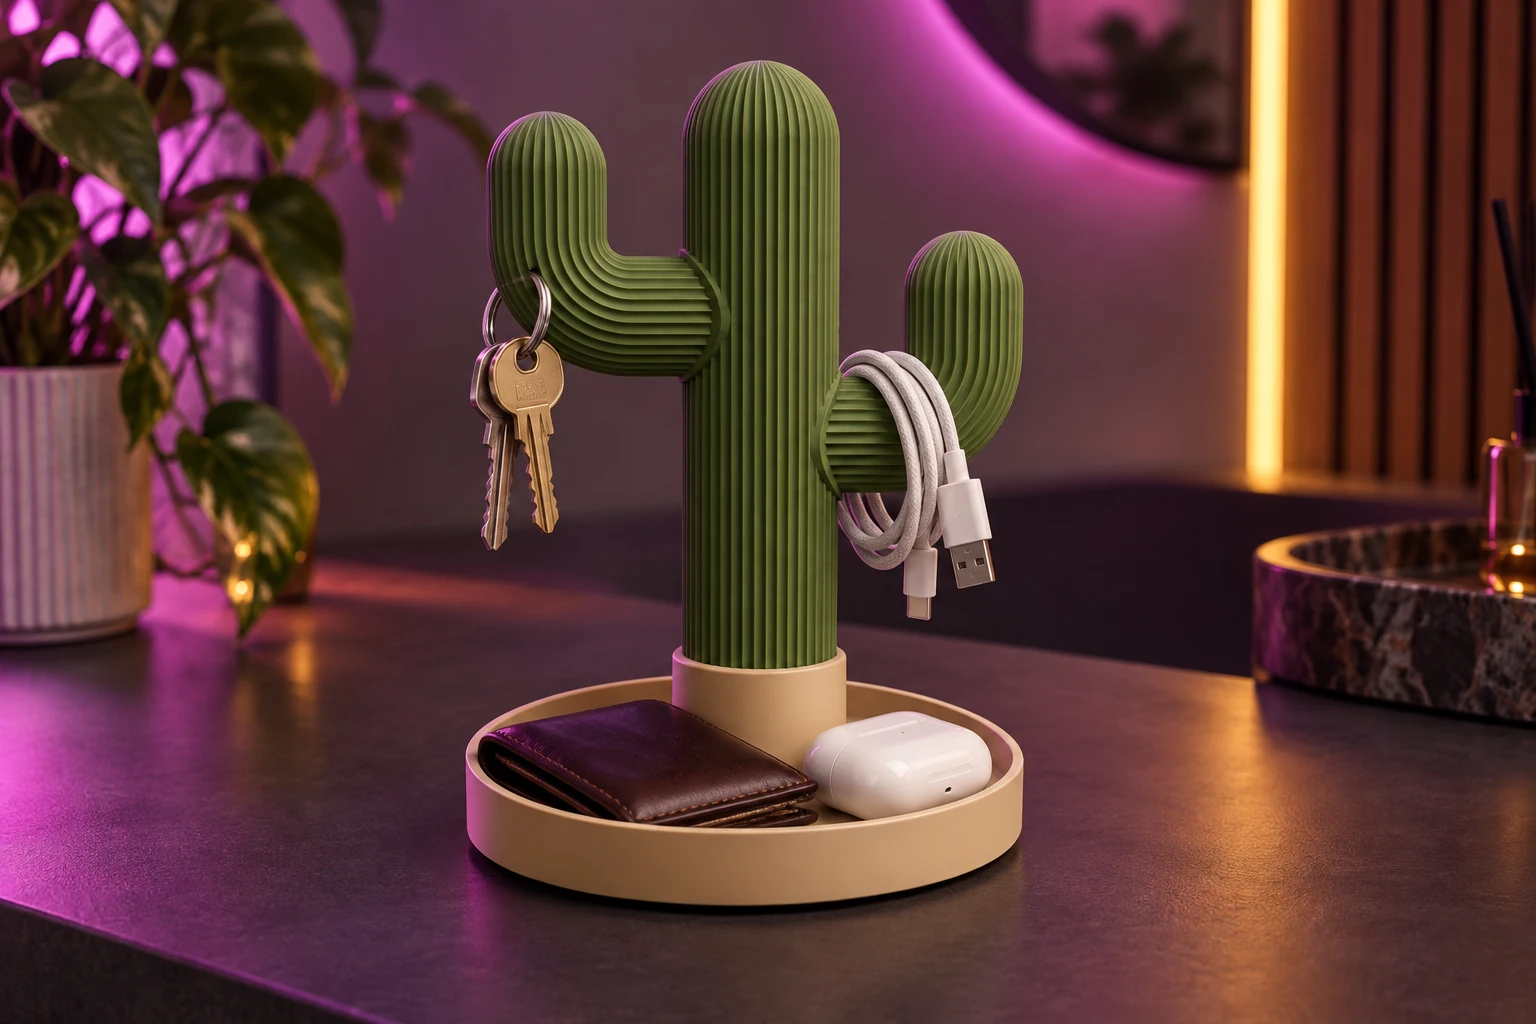
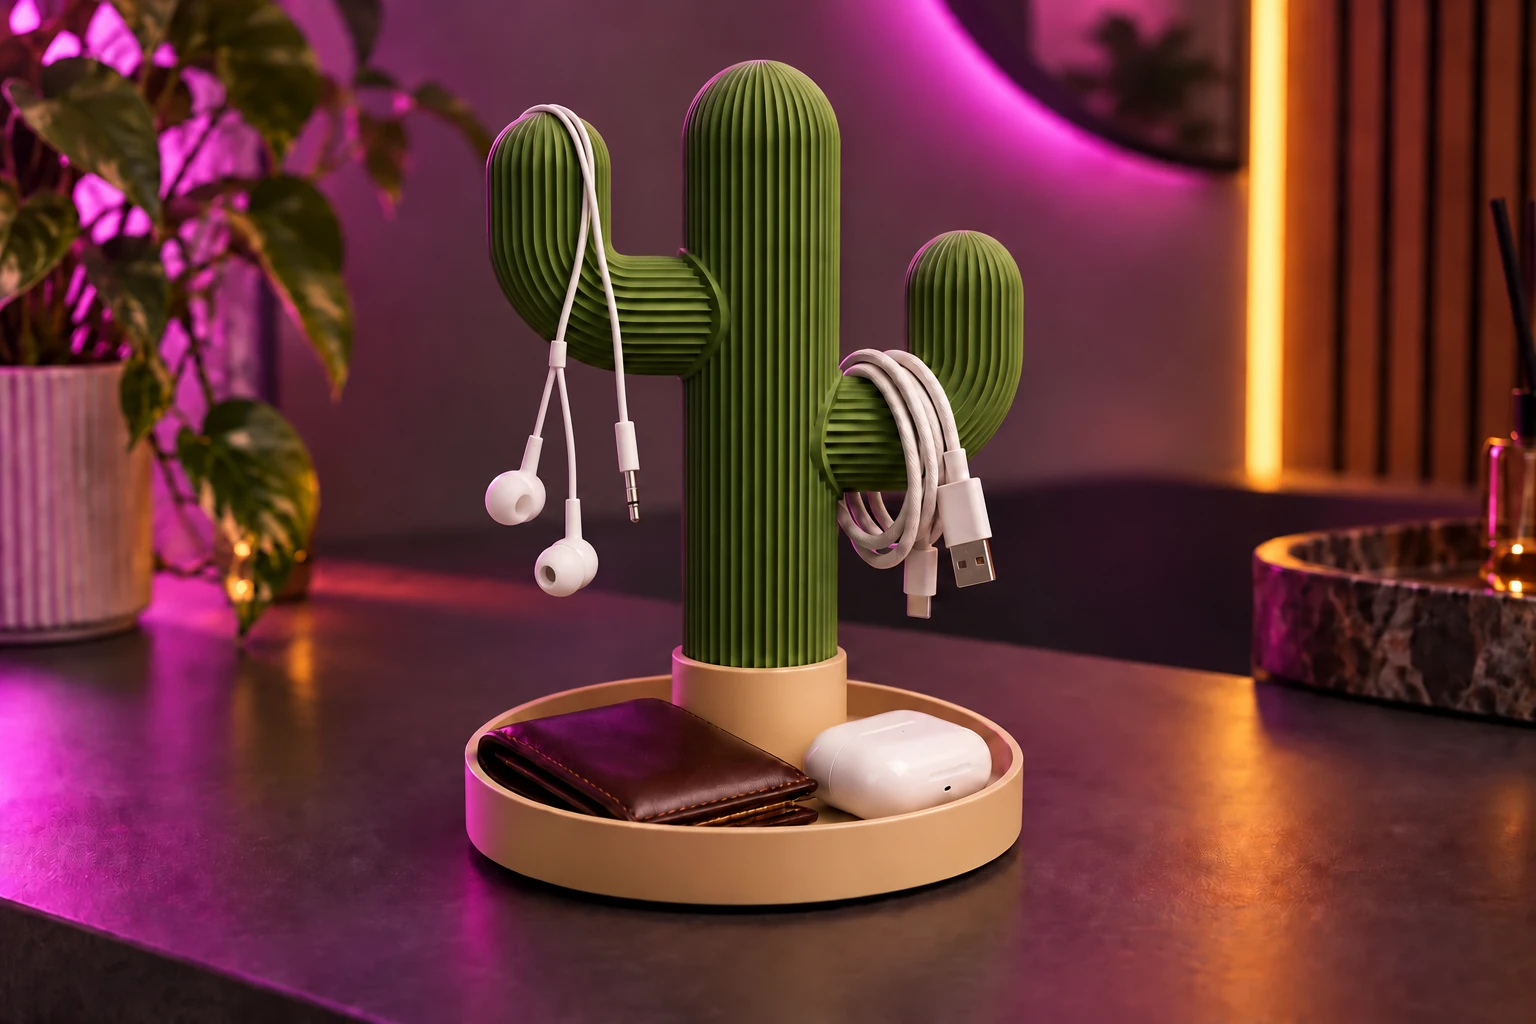
Publish Point3D Print static design and 3D configurator demo

diff --git a/mk/models/cactus-organizer/index.html b/mk/models/cactus-organizer/index.html
@@ -71,9 +71,9 @@
 <section class="usage-gallery section" aria-labelledby="usage-title">
 <div class="section-heading"><div><p class="eyebrow">Еден кактус. Многу намени.</p><h2 id="usage-title">Сè на свое место.</h2></div></div>
 <div class="usage-grid">
-<figure><img src="/point3d-print-demo/static/img/cactus/headphones.webp" width="1536" height="1024" loading="lazy" alt="Кактусот држи слушалки и кабел, со кутија за слушалки во базата"><figcaption>Слушалки и кабли</figcaption></figure>
+<figure><img src="/point3d-print-demo/static/img/cactus/headphones.webp?v=3" width="1536" height="1024" loading="lazy" alt="Големи слушалки свртени странично, со лентата врз врвот на рачето на кактусот"><figcaption>Слушалки и кабли</figcaption></figure>
 <figure><img src="/point3d-print-demo/static/img/cactus/jewelry.webp" width="1536" height="1024" loading="lazy" alt="Ѓердан и часовник на рацете на кактусот и прстени во базата"><figcaption>Накит и часовник</figcaption></figure>
-<figure><img src="/point3d-print-demo/static/img/cactus/essentials.webp" width="1536" height="1024" loading="lazy" alt="Кактусот организира клучеви, кабел и секојдневни ситници"><figcaption>Секојдневни ситници</figcaption></figure>
+<figure><img src="/point3d-print-demo/static/img/cactus/essentials.webp?v=3" width="1536" height="1024" loading="lazy" alt="Бели жичени слушалки за во уво, со кабелот префрлен преку врвот на рачето на кактусот"><figcaption>Слушалки за во уво</figcaption></figure>
 </div><p class="muted tiny">Генерирани визуелизации на употреба според 3Д моделот. Додатоците служат како пример.</p>
 </section>
 

diff --git a/en/models/cactus-organizer/index.html b/en/models/cactus-organizer/index.html
@@ -71,9 +71,9 @@
 <section class="usage-gallery section" aria-labelledby="usage-title">
 <div class="section-heading"><div><p class="eyebrow">One cactus. Many uses.</p><h2 id="usage-title">Everything in its place.</h2></div></div>
 <div class="usage-grid">
-<figure><img src="/point3d-print-demo/static/img/cactus/headphones.webp" width="1536" height="1024" loading="lazy" alt="The cactus holding headphones and a cable, with an earbuds case in the tray"><figcaption>Headphones and cables</figcaption></figure>
+<figure><img src="/point3d-print-demo/static/img/cactus/headphones.webp?v=3" width="1536" height="1024" loading="lazy" alt="Over-ear headphones turned sideways, with their headband resting on the cactus arm tip"><figcaption>Headphones and cables</figcaption></figure>
 <figure><img src="/point3d-print-demo/static/img/cactus/jewelry.webp" width="1536" height="1024" loading="lazy" alt="A necklace and watch on the cactus arms, with rings in its tray"><figcaption>Jewelry and a watch</figcaption></figure>
-<figure><img src="/point3d-print-demo/static/img/cactus/essentials.webp" width="1536" height="1024" loading="lazy" alt="The cactus organizing keys, a charging cable and everyday essentials"><figcaption>Everyday essentials</figcaption></figure>
+<figure><img src="/point3d-print-demo/static/img/cactus/essentials.webp?v=3" width="1536" height="1024" loading="lazy" alt="White wired earbuds with their cable draped over the cactus arm tip"><figcaption>Wired earbuds</figcaption></figure>
 </div><p class="muted tiny">AI-generated usage visualizations based on the 3D model. Accessories illustrate possible uses.</p>
 </section>
 
